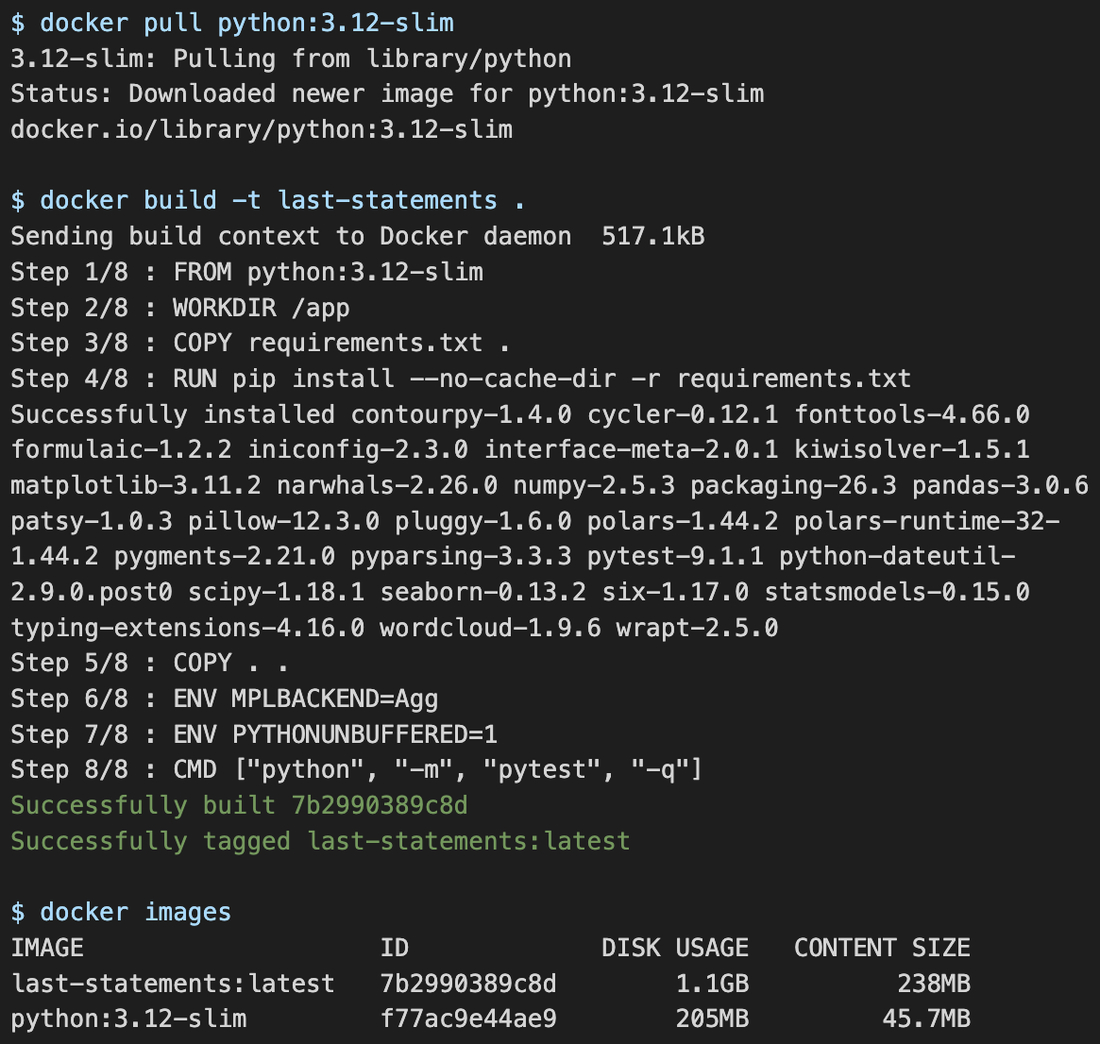
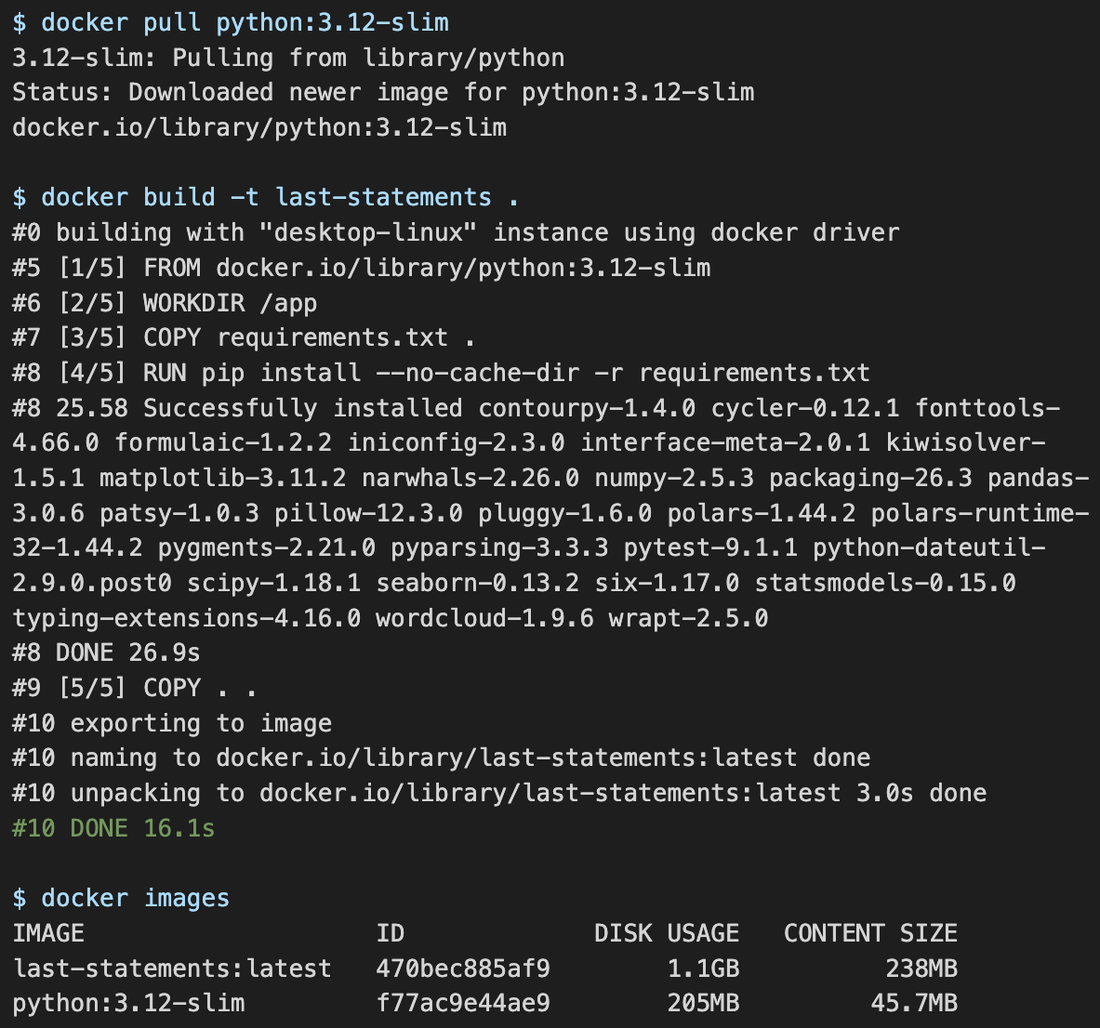
Shorten the README and show the current green CI run.
The long file buried the findings, and the old test screenshot was from the 23-test suite.

diff --git a/README.md b/README.md
@@ -4,125 +4,81 @@
 
 Alissa Rivero
 
-The main pieces are:
+## Problem
 
-1. A **Python data analysis script** — [`question1.py`](question1.py)
-2. A **Python Jupyter notebook** (same analysis in [`question1.ipynb`](question1.ipynb))
-3. This **README**
-4. A **Rust Jupyter notebook** — [`question2.ipynb`](question2.ipynb)
-
-The last section of the Python script (and notebook) also times **Pandas vs Polars** on the same pipeline.
-
-The previous ASD microbiome analysis is in [`Old dataset/`](Old%20dataset/).
-
-**Research questions**
+Texas publishes the last statements of people it executes, along with age, race, education, and whether the person had a prior criminal record. Three questions:
 
 1. Is a **prior criminal record** associated with more or less **apology / remorse** language?
 2. Is a **prior criminal record** associated with more or less **religious** language?
-3. What **themes** appear in last words (remorse, gratitude and love, family, religion), and are those rates predicted by **demographic categories**?
+3. What **themes** appear in last words (remorse, gratitude and love, family, religion), and do **age, education, race, or a prior record** predict those rates?
 
-## Dataset
+## Data
 
-[Last Statements of Executed Offenders (Kaggle)](https://www.kaggle.com/datasets/ranjithkumarraik/last-words-of-death-row-inmates)
+[Last Statements of Executed Offenders (Kaggle)](https://www.kaggle.com/datasets/ranjithkumarraik/last-words-of-death-row-inmates). The file used here is `Texas Last Statement - CSV.csv` (545 people, Latin-1). Theme comparisons use **hits per 100 words**, so a longer statement is not credited with more of every theme just because it is longer. *Ask* and *tell* are not themes.
 
-The file used here is `Texas Last Statement - CSV.csv`: last statements and demographics published by the Texas Department of Criminal Justice.
-
-| | |
+| What is wrong | What the analysis does |
 |---|---|
-| Rows | 545 people |
-| Columns | `Execution`, names, `Age`, `Race`, `CountyOfConviction`, `EducationLevel`, `PreviousCrime`, victim flags, `LastStatement` |
-| Encoding | Latin-1 (not UTF-8); `NativeCounty` has a trailing space in the header |
-| Groups | `PreviousCrime` 0 = 233 no prior record; 1 = 276 prior record; 36 NA rows dropped from the models |
-| Missing statements | 114 declined / blank statements, scored as zero words |
+| `PreviousCrime` is NA (36 rows) | Dropped from the groups and from every model |
+| Declined or blank statement (114 rows) | Scored as 0 words and 0 on every theme, and kept in the primary models |
+| `EducationLevel` is not numeric, or race is `Other` | Dropped only from the demographic models. Age has no missing values |
+| Spoken statement shorter than 20 words (54 rows) | Kept in the primary models. One keyword in a short line can be 50–100 hits per 100 words. Boxplot fliers are off; the points are still drawn |
+| Very long statements | The longest spoken statement is 1,267 words. Rates are per 100 words, so length alone does not add hits |
 
-Longer statements can mention more words of every kind, so theme comparisons use **hits per 100 words** (the same idea as relative abundance). Neutral verbs such as *ask* and *tell* are not treated as themes.
+The primary models keep every labeled row. A second fit drops declined rows and statements under 20 words, to see whether the answers depend on those zeros and short lines.
 
-A second file, `Texas Last Statement - Excel.xlsx`, is the same table and is not used in the analysis.
+## Methods
 
-## How to run the Python analysis
+`python question1.py` loads the CSV, scores four themes, and fits OLS. [`analysis.py`](analysis.py) holds the functions the tests import. [`question1.ipynb`](question1.ipynb) is the same analysis; [`question2.ipynb`](question2.ipynb) is that analysis in Rust.
+
+1. Label no prior record (`PreviousCrime == 0`) and prior record (`PreviousCrime == 1`).
+2. Score remorse, gratitude/love, family, and religion as hits per 100 words.
+3. Fit `apology_rate ~ prior_crime` and `religion_rate ~ prior_crime`, then refit both on spoken statements of at least 20 words.
+4. Fit each theme on prior crime, age, education, and race (White as the reference).
+5. Plot the rates and time the same pipeline in Pandas and Polars.
 
 ```bash
 python -m pip install -r requirements.txt
 python question1.py
-```
-
-Or open `question1.ipynb` and run all cells. The CSV files must stay in this same folder. If you see `ModuleNotFoundError`, the notebook kernel is a different Python than the one where you installed packages.
-
-## Tests and CI
-
-Importable functions live in [`analysis.py`](analysis.py) and [`visuals.py`](visuals.py). [`question1.py`](question1.py) is only the printed report; tests never import that script, so running pytest does not refit every model or rewrite the gallery.
-
-[`pytest.ini`](pytest.ini) puts the project root on `pythonpath` and collects from `tests/`.
-
-### How to run
-
-```bash
-python -m pip install -r requirements.txt
 make test
 ```
 
-Same thing without Make:
+## Results
 
-```bash
-python -m pytest
-python -m pytest -v
-python -m pytest tests/test_loading.py -v
-```
+- **Apology ~ prior crime:** no difference (about 1.07 vs 1.06 hits per 100 words; coefficient −0.003, p = 0.99).
+- **Religion ~ prior crime:** about **0.50 hits per 100 words higher** with a prior record (1.45 vs 1.95). That is only suggestive (p = 0.072) and the confidence interval crosses zero.
+- **Longer statements only (n = 359):** apology stays flat (p = 0.39). The religion gap shrinks to 0.39 hits per 100 words and the p-value moves to 0.20. The weak religion result was leaning on the zeros and the short statements.
+- **Demographics (n = 479):** Hispanic speakers use more gratitude/love (+1.29, p = 0.009) and more religious language (+0.95, p = 0.025) than White speakers. Black speakers use less remorse language (−0.45, p = 0.022). Family language is common in every group. All four models have small R² (0.014–0.029).
+- **Takeaway:** a prior record does not change remorse language, and the religion difference does not hold once declined and very short statements are set aside. Race shows up, and still explains little. That is not a claim about guilt, faith, or who should apologize.
+- **Polars** ran the same load, keyword-rate, and group-mean steps about **11× faster** than Pandas on this table (~10 ms vs ~114 ms).
 
-### What the suite covers
+## Figures
 
-**26 tests:** 25 unit tests of core steps, plus 1 system/integration test of the full pipeline. Each file checks both the happy path and an edge case (missing file, blank statement, `NA` strings, words that should not count as themes, a one-word statement that scores 100).
+![All last words](wordcloud_all.png)
 
-| File | Workflow step | What it checks |
-|---|---|---|
-| [`tests/test_loading.py`](tests/test_loading.py) | Data loading | 545 rows; required columns; Latin-1 load; trailing space stripped from `NativeCounty`; missing path raises `FileNotFoundError` |
-| [`tests/test_preprocessing.py`](tests/test_preprocessing.py) | Preprocessing | Declined / `None` / blank statements; real statements are kept; `"NA"` and junk become numeric missing; unknown `PreviousCrime` values are dropped |
-| [`tests/test_features.py`](tests/test_features.py) | Feature engineering | Tokenizer; remorse / gratitude+love / family / religion hits per 100 words; *ask* and *tell* are not themes; `person` is not `son`; `goodbye` is not `god`; declined rows score 0; a one-word statement scores 100 and is dropped by the 20-word filter |
-| [`tests/test_models.py`](tests/test_models.py) | Model train / predict / evaluate | `apology_rate ~ prior_crime` and `religion_rate ~ prior_crime` recover a known shift; p-values and `nobs`; demographic OLS includes Age, education, and race dummies; Other / missing rows are dropped; a one-word outlier does not drive the length-filtered model |
-| [`tests/test_visualization.py`](tests/test_visualization.py) | Visualization | Boxplots, word clouds, heatmap, and lollipop figures write real PNG files |
-| [`tests/test_system.py`](tests/test_system.py) | Full pipeline | One integration test: load the real CSV → score themes → fit both model sets → write plots. Asserts 545 rows, 114 declined, 509 labeled, 479 demographic rows, fitted OLS objects, and non-empty figures |
+![Last words by prior criminal record](wordclouds_prior.png)
 
-The system test is the one that has to keep working if someone changes load, scoring, or plotting. The unit tests pin the pieces so a failure points at the step that broke.
+![The four themes](wordclouds_themes.png)
 
-### Continuous integration
+![Theme rates by race](theme_heatmap.png)
 
-[`.github/workflows/test.yml`](.github/workflows/test.yml) runs on every push, pull request, manual dispatch, and every Monday at 12:00 UTC.
+![Theme profile by race](theme_profile.png)
 
-**Lint** (Python 3.12): install [`requirements-dev.txt`](requirements-dev.txt), then `black --check` and `flake8` on `analysis.py`, `visuals.py`, `question1.py`, and `tests/`.
+## Tests and CI
 
-**Test** (matrix of Python 3.12 and 3.13):
+**26 tests** in [`tests/`](tests/): typical cases and edge cases (missing file, blank statement, `"NA"` strings, words that should not count as themes, a one-word statement that scores 100). [`.github/workflows/test.yml`](.github/workflows/test.yml) runs on every push, pull request, manual dispatch, and every Monday at 12:00 UTC. One job lints with Black and flake8. The test job uses a matrix of Python 3.12 and 3.13. `make lint` and `make format` are the local versions.
 
-1. Check out the repo
-2. Set up that Python version
-3. `make install` (`pip install -r requirements.txt`)
-4. `make test` with `MPLBACKEND=Agg` so plots do not need a display
-
-Locally, `make lint` is the same formatting and lint check, and `make format` rewrites the files with Black.
-
-Status badge at the top of this file: [![Python tests](https://github.com/alissarivero/week-2-mini-assignment/actions/workflows/test.yml/badge.svg)](https://github.com/alissarivero/week-2-mini-assignment/actions/workflows/test.yml)
-
-### Passing run
-
-![pytest: 23 passed](docs/tests-pass.png)
-
-That screenshot is the earlier 23-test run. The suite is 26 tests now. The container run below is the current one.
+![Green GitHub Actions run](docs/tests-pass.png)
 
 ## Docker
 
-The image runs the test suite. It starts from `python:3.12-slim`, installs [`requirements.txt`](requirements.txt), copies the project (including the CSV), and sets `MPLBACKEND=Agg` so plots do not need a display.
+The image runs the test suite from `python:3.12-slim`. Each Dockerfile instruction is a layer. The CSV has to be copied into the image, or the tests cannot find the file. These commands were run with Docker Desktop (`desktop-linux`).
 
 ```bash
 docker build -t last-statements .
 docker run --rm last-statements
 ```
 
-`docker build` makes the image. `docker run --rm` starts a container, runs pytest, and deletes the container when it exits. `docker images` lists what is on the machine, and `docker ps -a` shows containers that have already stopped.
-
-On this Mac I used Colima, because Docker Desktop was not installed. The build and run commands are the same.
-
-The Dockerfile is a short recipe: each instruction is a layer. The CSV has to be copied into the image, or the tests cannot find the file.
-
-The run screenshot names the container so `docker ps -a` still lists it after pytest exits with status 0. `docker run --rm` runs the same tests and then deletes the container.
+`docker run --rm` runs pytest and deletes the container. The screenshot names the container so `docker ps -a` still shows **Exited (0)**.
 
 ![Docker image build](docs/docker-build.png)
 
@@ -130,113 +86,10 @@ The run screenshot names the container so `docker ps -a` still lists it after py
 
 ## Refactoring
 
-`add_text_scores` used to compute the four theme rates with four copies of the same division. Those copies now go through `hits_per_hundred`, and the word lists sit in one `THEMES` registry. `plot_prior_crime` and `plot_themes` both drew a boxplot plus a strip plot with the same styling. That shared drawing is `_draw_grouped_boxes`.
+`add_text_scores` used to divide hits by word count four times. Those copies now go through `hits_per_hundred`, and the word lists sit in one `THEMES` registry. `plot_prior_crime` and `plot_themes` shared one boxplot-and-strip routine, `_draw_grouped_boxes`. A scoring or styling fix happens in one place. The public names such as `REMORSE_EXACT` are unchanged, so the old tests still import them.
 
-A scoring or styling fix should happen in one place. The public names (`REMORSE_EXACT` and the others) are unchanged, so the existing tests still import them.
-
-I checked this with `python -m pytest` (26 passed) and with `black` / `flake8` on the project Python files.
-
-The commit is [`79b0a94`](https://github.com/alissarivero/week-2-mini-assignment/commit/79b0a94):
+Checked with pytest (26 passed) and with Black and flake8. Commit [`79b0a94`](https://github.com/alissarivero/week-2-mini-assignment/commit/79b0a94):
 
 ![Refactoring diff on GitHub](docs/refactor-diff.png)
 
-## Missing values and outliers
-
-| What is wrong | What the analysis does |
-|---|---|
-| `PreviousCrime` is NA (36 rows) | Dropped from the prior-crime groups and from every OLS model |
-| Declined or blank statement (114 rows) | Scored as 0 words and 0 on every theme, and kept in the primary models. 102 of the 509 labeled rows are declined |
-| `EducationLevel` is not numeric (45 rows; 28 of the labeled rows) | Dropped only from the demographic models |
-| Race is `Other` (2 rows) | Dropped only from the demographic models, with White / Black / Hispanic kept |
-| Age | No missing values in this file |
-| Spoken statement shorter than 20 words (54 rows) | Kept in the primary models. One keyword in a two-word line is 50 hits per 100 words. The boxplots turn boxplot fliers off (`fliersize=0`) and still draw every point as a strip |
-| Very long statements | The longest spoken statement is 1,267 words. Rates are per 100 words, so a long statement does not add hits just by being long |
-
-The primary models answer the original questions with every labeled row included. A second fit, below, asks whether those answers depend on the zeros and the short statements.
-
-## What the Python analysis does
-
-1. Load and inspect `Texas Last Statement - CSV.csv`.
-2. Split rows into no prior record (`PreviousCrime == 0`) and prior record (`PreviousCrime == 1`); flag declined statements.
-3. Use `groupby()` for mean / count / std of word count, age, education, and theme rates by group and by race.
-4. Compare race means side by side with percent difference (prior vs no prior).
-5. Build four per-person theme scores (hits per 100 words):
-   - **remorse / apology** — *sorry, apologize, forgive, remorse, regret*
-   - **gratitude and love** (one theme) — *thank, grateful, love*
-   - **family** (kept separate) — *mom, dad, kids, brother, sister, wife, family, friends*
-   - **religion** — *god, jesus, christ, lord, heaven, pray, amen*
-6. Fit the two original OLS models with prior crime as the predictor (`1` = prior record, `0` = none):
-   - `apology_rate ~ prior_crime`
-   - `religion_rate ~ prior_crime`
-   - then refit both on spoken statements of at least 20 words (declined rows and shorter statements dropped)
-7. Fit four demographic OLS models (`theme ~ prior_crime + Age + EducationLevel + Race`, White as the reference):
-   - `remorse_rate`, `gratitude_love_rate`, `family_rate`, `religion_rate`
-8. Plot apology vs religion by prior record, and the four themes by race.
-9. Time the same load + keyword-rate + group-mean pipeline in **Pandas** and **Polars**.
-
-## Outcomes
-
-- **Apology / remorse ~ prior crime:** no difference (about 1.07 vs 1.06 hits per 100 words). The prior-crime coefficient is −0.003 (p = 0.99, R² ≈ 0). The confidence interval crosses zero.
-- **Religion ~ prior crime:** people with a prior record are about **0.50 words per 100 higher** (1.45 vs 1.95). That is only suggestive (p = 0.072, R² = 0.006) and the confidence interval crosses zero.
-- **Same models, longer statements only (n = 359):** declined rows and statements under 20 words are out. Apology is still flat (1.50 vs 1.33, coefficient −0.17, p = 0.39). Religion is still a bit higher with a prior record (1.86 vs 2.25, coefficient 0.39) but the p-value moves from 0.072 to 0.20, and the confidence interval still crosses zero. The weak religion result in the full sample was leaning on the zeros and the short statements.
-- **Themes:** last words are mostly **gratitude/love** and **family**, then religion and remorse. *Ask* and *tell* are not included.
-- **Demographics (n = 479):** Hispanic speakers use more gratitude/love (+1.29 per 100, p = 0.009) and more religious language (+0.95, p = 0.025) than White speakers. Black speakers use less remorse language (−0.45, p = 0.022). Family language is common in every group and is not predicted by race, age, education, or prior crime. All four demographic models have small R² (0.014–0.029).
-- **Takeaway:** a prior criminal record does not change remorse language. The religion difference is small, and it does not hold up once declined statements and very short statements are set aside. Race is the demographic that shows up, and even then it explains little of the theme rates. That is not a claim about guilt, faith, or who “should” apologize.
-- **Polars:** the same load → keyword-rate → group-mean pipeline was about **11× faster** in Polars than in Pandas on this table (~10 ms vs ~114 ms). Polars uses a word-boundary regex over the same lists, so group means can differ slightly from the Python tokenizer.
-
-## Visualizations
-
-`python question1.py` writes the original boxplots plus a gallery of word clouds and theme summaries. Neutral verbs such as *ask* and *tell* are left out of the clouds.
-
-**What people actually said**
-
-![All last words](wordcloud_all.png)
-
-**By prior record**
-
-![Last words by prior criminal record](wordclouds_prior.png)
-
-**The four themes** (only remorse, gratitude/love, family, and religion words)
-
-![Theme word clouds](wordclouds_themes.png)
-
-**Theme rates by race**
-
-![Theme heatmap](theme_heatmap.png)
-
-![Theme profile](theme_profile.png)
-
-## Question 2: Rust notebook
-
-[`question2.ipynb`](question2.ipynb) is the **same analysis as the Python notebook**, rewritten in Rust, with the same section titles, dataset abstract, and interpretation write-up. It loads `Texas Last Statement - CSV.csv`, inspects it, splits prior vs no prior, groups by race, builds theme scores, fits the same OLS models, and draws the boxplots. Ownership is used so it **works**: clone when two names need the list, borrow (`&`) to look without taking, and drop readers before a write.
-
-1. Install the Rust Jupyter kernel (`evcxr_jupyter --install`) if it is not already there.
-2. Open `question2.ipynb` and pick **Rust** (not Python). If `let` is a `SyntaxError`, you are still on Python.
-3. Run all cells from top to bottom. Every cell is meant to compile.
-
-## Files
-
-| File | Role |
-|---|---|
-| `question1.py` | Data analysis Python script (required) |
-| `analysis.py` | Importable load / score / model / plot functions |
-| `question1.ipynb` | Same analysis as a notebook, plus the Polars timing |
-| `question2.ipynb` | Same analysis in Rust, plus ownership experiments (required) |
-| `tests/` | Unit tests plus one system test |
-| `.github/workflows/test.yml` | GitHub Actions CI (lint, plus tests on Python 3.12 and 3.13) |
-| `requirements.txt` / `requirements-dev.txt` / `Makefile` | Install, `make test`, `make lint`, `make format` |
-| `Dockerfile` / `.dockerignore` | Image that runs the test suite |
-| `README.md` | This file (required) |
-| `docs/tests-pass.png` | Screenshot of the passing test run |
-| `docs/refactor-diff.png` | GitHub diff for the shared scoring and plot helpers |
-| `docs/docker-build.png` / `docs/docker-run.png` | Image build and container test run |
-| `Texas Last Statement - CSV.csv` | Last-statement table used in the analysis |
-| `Texas Last Statement - Excel.xlsx` | Same table (not used) |
-| `apology_religion.png` | Prior-crime figure written by `question1.py` |
-| `last_statement_themes.png` | Theme-by-race figure written by `question1.py` |
-| `wordcloud_all.png` | Word cloud of every spoken last statement |
-| `wordclouds_prior.png` | Word clouds, no prior vs prior record |
-| `wordclouds_themes.png` | Four theme word clouds |
-| `theme_heatmap.png` / `theme_profile.png` | Theme rates by race |
-| `visuals.py` | Word-cloud and gallery figures |
-| `Old dataset/` | Previous ASD microbiome assignment files |
+The earlier ASD microbiome files are in [`Old dataset/`](Old%20dataset/).
